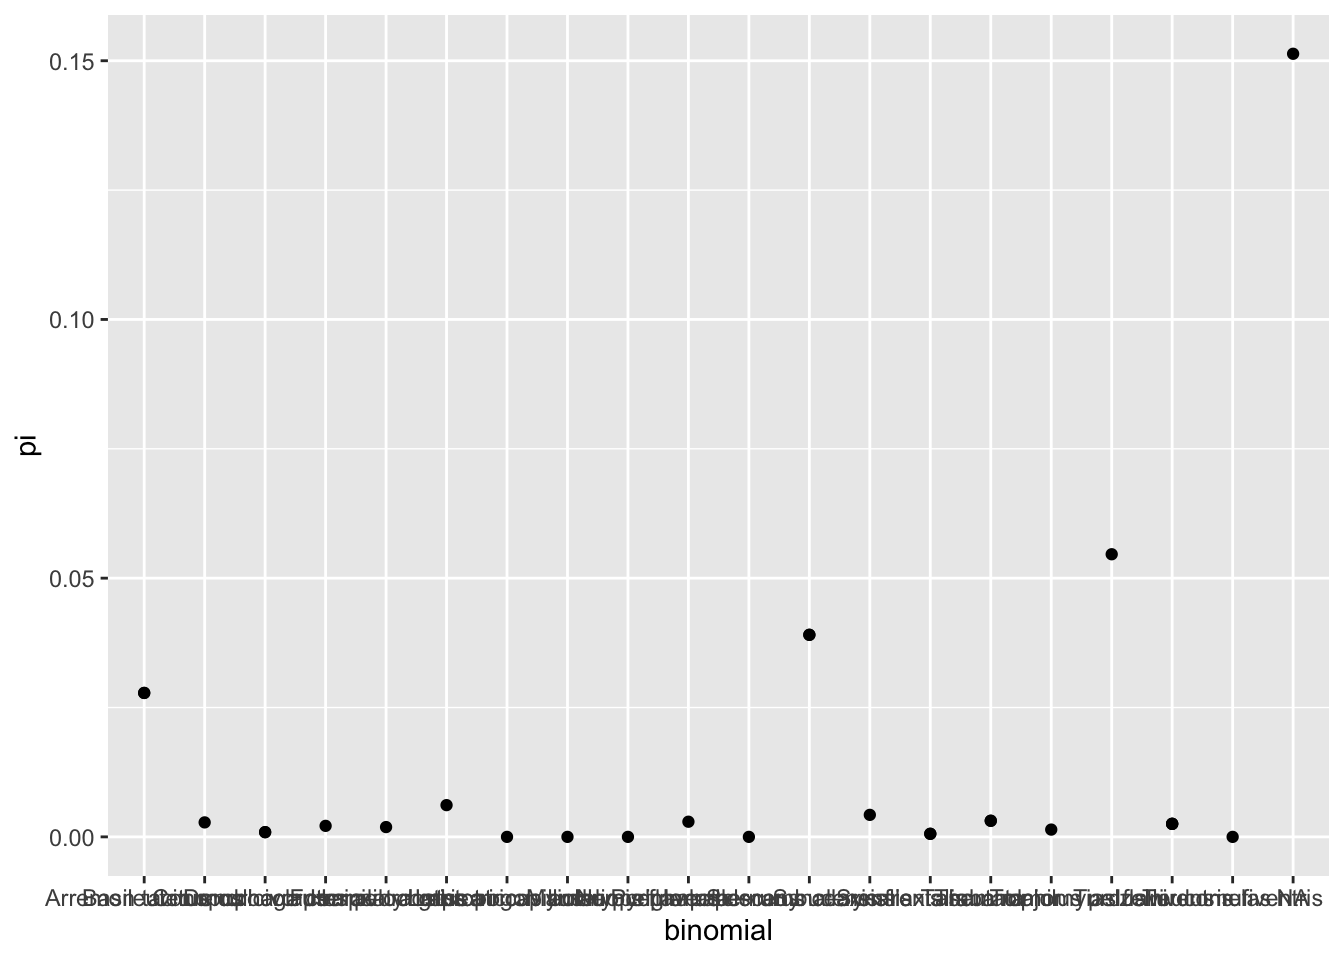
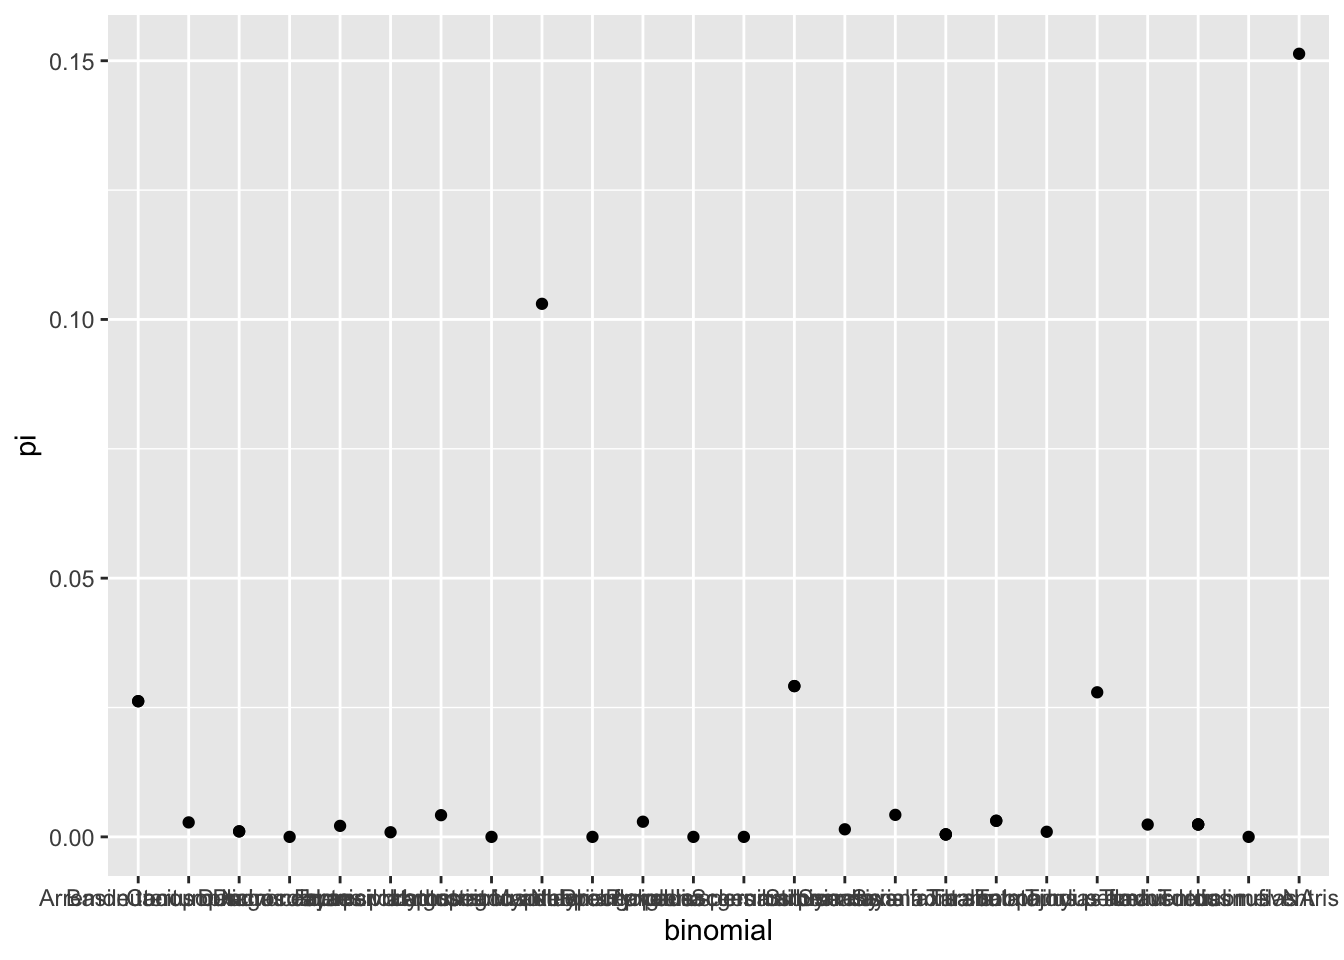
Plots and hill numbers

diff --git a/evo-bio/bird-barcode/aln_gendiv.html b/evo-bio/bird-barcode/aln_gendiv.html
@@ -335,10 +335,11 @@ $ sequence_quality &lt;chr&gt; NA, NA, "good sequence. Mathces with blast", NA, 
 <div class="sourceCode cell-code" id="cb23"><pre class="sourceCode r code-with-copy"><code class="sourceCode r"><span id="cb23-1"><a href="#cb23-1" aria-hidden="true" tabindex="-1"></a>coi_data<span class="sc">$</span>sequence[<span class="dv">1</span>]</span></code><button title="Copy to Clipboard" class="code-copy-button"><i class="bi"></i></button></pre></div>
 <div class="cell-output cell-output-stdout">
 <pre><code>[[1]]
-DNAStringSet object of length 2:
+DNAStringSet object of length 3:
     width seq
-[1]   666 CTTTGGCGCNTGAGCTGGAATAATTGGAACCGCC...ACATTTATTCTGATTCTTTGGTCACCCAGAAGT
-[2]   653 GGCGCATGAGCTGGAATAATTGGAACCGCCCTCA...TCTGTACCAACATTTATTCTGATTCTTTGGTCA</code></pre>
+[1]   667 CAAGACATTGGCACTCTATATCTAATCTTTGGCG...GAGGTGGAGACCCAATTCTGTACCAACATTTAT
+[2]   666 CTTTGGCGCNTGAGCTGGAATAATTGGAACCGCC...ACATTTATTCTGATTCTTTGGTCACCCAGAAGT
+[3]   653 GGCGCATGAGCTGGAATAATTGGAACCGCCCTCA...TCTGTACCAACATTTATTCTGATTCTTTGGTCA</code></pre>
 </div>
 </div>
 <p>We can see that the content is now formatted following the standards of the package <code>Biostrings</code>: we have the info of the width of each sequence, the sequence itself, and each base has a different color. This is the type of object we need for the alignment. Again, we can perform the alignment on each them with <code>mutate()</code> and the <code>muscle()</code> function from the <code>muscle</code> package. We save it to a different column called <code>aln</code>:</p>
@@ -351,10 +352,11 @@ DNAStringSet object of length 2:
 <div class="sourceCode cell-code" id="cb26"><pre class="sourceCode r code-with-copy"><code class="sourceCode r"><span id="cb26-1"><a href="#cb26-1" aria-hidden="true" tabindex="-1"></a>coi_data<span class="sc">$</span>aln[<span class="dv">1</span>]</span></code><button title="Copy to Clipboard" class="code-copy-button"><i class="bi"></i></button></pre></div>
 <div class="cell-output cell-output-stdout">
 <pre><code>[[1]]
-DNAMultipleAlignment with 2 rows and 666 columns
+DNAMultipleAlignment with 3 rows and 692 columns
      aln
-[1] CTTTGGCGCNTGAGCTGGAATAATTGGAACCGCCCT...CCAACATTTATTCTGATTCTTTGGTCACCCAGAAGT
-[2] ----GGCGCATGAGCTGGAATAATTGGAACCGCCCT...CCAACATTTATTCTGATTCTTTGGTCA---------</code></pre>
+[1] CAAGACATTGGCACTCTATATCTAATCTTTGGCGCA...CCAACATTTAT-------------------------
+[2] --------------------------CTTTGGCGCN...CCAACATTTATTCTGATTCTTTGGTCACCCAGAAGT
+[3] ------------------------------GGCGCA...CCAACATTTATTCTGATTCTTTGGTCA---------</code></pre>
 </div>
 </div>
 </section>
@@ -399,34 +401,66 @@ DNAMultipleAlignment with 2 rows and 666 columns
 <h4 class="anchored" data-anchor-id="step-7.-comparing-abundance-and-genetic-diversity">Step 7. Comparing abundance and genetic diversity</h4>
 <div class="cell">
 <div class="sourceCode cell-code" id="cb31"><pre class="sourceCode r code-with-copy"><code class="sourceCode r"><span id="cb31-1"><a href="#cb31-1" aria-hidden="true" tabindex="-1"></a>comm <span class="ot">&lt;-</span> <span class="fu">readRDS</span>(<span class="at">file =</span> <span class="st">'data/bird/abundance/comm_counts_samples.rds'</span>)</span>
-<span id="cb31-2"><a href="#cb31-2" aria-hidden="true" tabindex="-1"></a>comm <span class="ot">&lt;-</span> <span class="fu">lapply</span>(<span class="dv">1</span><span class="sc">:</span><span class="fu">length</span>(comm),<span class="cf">function</span>(x){<span class="fu">return</span>(<span class="fu">mutate</span>(comm[[x]],<span class="at">island =</span> <span class="fu">rep</span>(<span class="fu">names</span>(comm)[x],<span class="fu">nrow</span>(comm[[x]]))))}) <span class="sc">%&gt;%</span></span>
-<span id="cb31-3"><a href="#cb31-3" aria-hidden="true" tabindex="-1"></a>  <span class="fu">do.call</span>(<span class="at">what =</span> rbind.data.frame) <span class="sc">%&gt;%</span> <span class="fu">mutate</span>(<span class="at">island =</span> <span class="fu">str_to_lower</span>(island)) <span class="sc">%&gt;%</span></span>
-<span id="cb31-4"><a href="#cb31-4" aria-hidden="true" tabindex="-1"></a>  <span class="fu">rename</span>(<span class="at">sciName =</span> <span class="st">'binomial'</span>) <span class="sc">%&gt;%</span></span>
-<span id="cb31-5"><a href="#cb31-5" aria-hidden="true" tabindex="-1"></a>  <span class="fu">left_join</span>(coi_data,<span class="at">by=</span><span class="fu">c</span>(<span class="st">'island'</span>,<span class="st">'binomial'</span>)) <span class="sc">%&gt;%</span></span>
-<span id="cb31-6"><a href="#cb31-6" aria-hidden="true" tabindex="-1"></a>  <span class="fu">select</span>(<span class="sc">!</span><span class="fu">c</span>(sequence,aln,)) <span class="sc">%&gt;%</span></span>
-<span id="cb31-7"><a href="#cb31-7" aria-hidden="true" tabindex="-1"></a>  <span class="fu">mutate</span>(<span class="at">binomial =</span> <span class="fu">fct_reorder</span>(binomial,dplyr<span class="sc">::</span><span class="fu">desc</span>(total)))</span>
-<span id="cb31-8"><a href="#cb31-8" aria-hidden="true" tabindex="-1"></a>coeff <span class="ot">&lt;-</span> <span class="dv">10</span><span class="sc">^</span><span class="fl">3.2</span> <span class="co"># Coefficient for second axis</span></span>
-<span id="cb31-9"><a href="#cb31-9" aria-hidden="true" tabindex="-1"></a></span>
-<span id="cb31-10"><a href="#cb31-10" aria-hidden="true" tabindex="-1"></a><span class="fu">library</span>(ggthemes)</span>
-<span id="cb31-11"><a href="#cb31-11" aria-hidden="true" tabindex="-1"></a>comm <span class="sc">%&gt;%</span></span>
-<span id="cb31-12"><a href="#cb31-12" aria-hidden="true" tabindex="-1"></a>  <span class="fu">ggplot</span>(<span class="fu">aes</span>(<span class="at">x=</span>binomial,<span class="at">y=</span>total,<span class="at">group=</span>island))<span class="sc">+</span></span>
-<span id="cb31-13"><a href="#cb31-13" aria-hidden="true" tabindex="-1"></a>  <span class="fu">geom_bar</span>(<span class="at">stat=</span><span class="st">'identity'</span>,<span class="at">position =</span> <span class="fu">position_dodge</span>(),<span class="at">fill=</span><span class="st">'cadetblue3'</span>)<span class="sc">+</span></span>
-<span id="cb31-14"><a href="#cb31-14" aria-hidden="true" tabindex="-1"></a>  <span class="fu">stat_smooth</span>(<span class="fu">aes</span>(<span class="at">y=</span>total, <span class="at">x=</span>binomial), <span class="at">method =</span> lm, <span class="at">formula =</span> y <span class="sc">~</span> <span class="fu">poly</span>(x, <span class="dv">10</span>), <span class="at">se =</span> <span class="cn">FALSE</span>,</span>
-<span id="cb31-15"><a href="#cb31-15" aria-hidden="true" tabindex="-1"></a>              <span class="at">col =</span> <span class="st">'red'</span>,<span class="at">size=</span><span class="fl">0.5</span>)<span class="sc">+</span></span>
-<span id="cb31-16"><a href="#cb31-16" aria-hidden="true" tabindex="-1"></a>  <span class="fu">geom_point</span>(<span class="fu">aes</span>(<span class="at">y=</span>pi<span class="sc">*</span>coeff),<span class="at">color=</span><span class="st">'purple'</span>,<span class="at">size=</span><span class="fl">1.5</span>)<span class="sc">+</span></span>
-<span id="cb31-17"><a href="#cb31-17" aria-hidden="true" tabindex="-1"></a>  <span class="fu">facet_wrap</span>(<span class="sc">~</span>island)<span class="sc">+</span></span>
-<span id="cb31-18"><a href="#cb31-18" aria-hidden="true" tabindex="-1"></a>  <span class="fu">scale_y_continuous</span>(</span>
-<span id="cb31-19"><a href="#cb31-19" aria-hidden="true" tabindex="-1"></a>    <span class="at">name =</span> <span class="st">"Abundance"</span>,</span>
-<span id="cb31-20"><a href="#cb31-20" aria-hidden="true" tabindex="-1"></a>    <span class="at">sec.axis =</span> <span class="fu">sec_axis</span>(<span class="sc">~</span>.<span class="sc">/</span>coeff, <span class="at">name=</span><span class="st">"Nuc. Div."</span>)</span>
-<span id="cb31-21"><a href="#cb31-21" aria-hidden="true" tabindex="-1"></a>  )<span class="sc">+</span></span>
-<span id="cb31-22"><a href="#cb31-22" aria-hidden="true" tabindex="-1"></a>  <span class="fu">labs</span>(<span class="at">x=</span><span class="st">'Species'</span>)<span class="sc">+</span></span>
-<span id="cb31-23"><a href="#cb31-23" aria-hidden="true" tabindex="-1"></a>  <span class="fu">theme_minimal</span>()<span class="sc">+</span></span>
-<span id="cb31-24"><a href="#cb31-24" aria-hidden="true" tabindex="-1"></a>  <span class="fu">theme</span>(<span class="at">axis.text.x =</span> <span class="fu">element_blank</span>(),</span>
-<span id="cb31-25"><a href="#cb31-25" aria-hidden="true" tabindex="-1"></a>        <span class="at">axis.ticks =</span> <span class="fu">element_blank</span>())</span></code><button title="Copy to Clipboard" class="code-copy-button"><i class="bi"></i></button></pre></div>
+<span id="cb31-2"><a href="#cb31-2" aria-hidden="true" tabindex="-1"></a>comm_gen <span class="ot">&lt;-</span> <span class="fu">vector</span>(<span class="st">'list'</span>)</span>
+<span id="cb31-3"><a href="#cb31-3" aria-hidden="true" tabindex="-1"></a><span class="cf">for</span> (x <span class="cf">in</span> <span class="fu">names</span>(comm)) {</span>
+<span id="cb31-4"><a href="#cb31-4" aria-hidden="true" tabindex="-1"></a>  comm_gen[[x]] <span class="ot">&lt;-</span> comm[[x]] <span class="sc">%&gt;%</span> </span>
+<span id="cb31-5"><a href="#cb31-5" aria-hidden="true" tabindex="-1"></a>    <span class="fu">rename</span>(<span class="at">sciName =</span> <span class="st">'binomial'</span>) <span class="sc">%&gt;%</span></span>
+<span id="cb31-6"><a href="#cb31-6" aria-hidden="true" tabindex="-1"></a>    <span class="fu">left_join</span>(coi_data[<span class="fu">which</span>(coi_data<span class="sc">$</span>island<span class="sc">==</span><span class="fu">str_to_lower</span>(x)),],<span class="at">by=</span><span class="st">'binomial'</span>) <span class="sc">%&gt;%</span> </span>
+<span id="cb31-7"><a href="#cb31-7" aria-hidden="true" tabindex="-1"></a>    <span class="fu">select</span>(<span class="sc">!</span><span class="fu">c</span>(sequence,aln,island)) <span class="sc">%&gt;%</span></span>
+<span id="cb31-8"><a href="#cb31-8" aria-hidden="true" tabindex="-1"></a>    <span class="fu">mutate</span>(<span class="at">binomial =</span> <span class="fu">fct_reorder</span>(binomial,dplyr<span class="sc">::</span><span class="fu">desc</span>(total)))</span>
+<span id="cb31-9"><a href="#cb31-9" aria-hidden="true" tabindex="-1"></a>    <span class="co">#replace_na(list(n=0,pi=0))</span></span>
+<span id="cb31-10"><a href="#cb31-10" aria-hidden="true" tabindex="-1"></a>}</span>
+<span id="cb31-11"><a href="#cb31-11" aria-hidden="true" tabindex="-1"></a><span class="fu">names</span>(comm_gen) <span class="ot">&lt;-</span> <span class="fu">names</span>(comm)</span>
+<span id="cb31-12"><a href="#cb31-12" aria-hidden="true" tabindex="-1"></a></span>
+<span id="cb31-13"><a href="#cb31-13" aria-hidden="true" tabindex="-1"></a>coeff <span class="ot">&lt;-</span> <span class="dv">10</span><span class="sc">^</span><span class="fl">3.2</span> <span class="co"># Coefficient for second axis</span></span>
+<span id="cb31-14"><a href="#cb31-14" aria-hidden="true" tabindex="-1"></a><span class="fu">library</span>(ggthemes)</span>
+<span id="cb31-15"><a href="#cb31-15" aria-hidden="true" tabindex="-1"></a><span class="fu">lapply</span>(<span class="dv">1</span><span class="sc">:</span><span class="fu">length</span>(comm_gen),<span class="cf">function</span>(i){</span>
+<span id="cb31-16"><a href="#cb31-16" aria-hidden="true" tabindex="-1"></a>  <span class="fu">ggplot</span>(comm_gen[[i]],<span class="fu">aes</span>(<span class="at">x=</span>binomial,<span class="at">y=</span>total))<span class="sc">+</span></span>
+<span id="cb31-17"><a href="#cb31-17" aria-hidden="true" tabindex="-1"></a>    <span class="fu">geom_bar</span>(<span class="at">stat=</span><span class="st">'identity'</span>,<span class="at">position =</span> <span class="fu">position_dodge</span>(),<span class="at">fill=</span><span class="st">'cadetblue3'</span>)<span class="sc">+</span></span>
+<span id="cb31-18"><a href="#cb31-18" aria-hidden="true" tabindex="-1"></a>    <span class="fu">stat_smooth</span>(<span class="fu">aes</span>(<span class="at">y=</span>total, <span class="at">x=</span>binomial), <span class="at">method =</span> lm, <span class="at">formula =</span> y <span class="sc">~</span> <span class="fu">poly</span>(x, <span class="dv">10</span>), <span class="at">se =</span> <span class="cn">FALSE</span>,</span>
+<span id="cb31-19"><a href="#cb31-19" aria-hidden="true" tabindex="-1"></a>                <span class="at">col =</span> <span class="st">'red'</span>,<span class="at">size=</span><span class="fl">0.5</span>)<span class="sc">+</span></span>
+<span id="cb31-20"><a href="#cb31-20" aria-hidden="true" tabindex="-1"></a>    <span class="fu">geom_point</span>(<span class="fu">aes</span>(<span class="at">y=</span>pi<span class="sc">*</span>coeff),<span class="at">color=</span><span class="st">'purple'</span>,<span class="at">size=</span><span class="fl">1.5</span>)<span class="sc">+</span></span>
+<span id="cb31-21"><a href="#cb31-21" aria-hidden="true" tabindex="-1"></a>    <span class="fu">scale_y_continuous</span>(</span>
+<span id="cb31-22"><a href="#cb31-22" aria-hidden="true" tabindex="-1"></a>      <span class="at">name =</span> <span class="st">"Abundance"</span>,</span>
+<span id="cb31-23"><a href="#cb31-23" aria-hidden="true" tabindex="-1"></a>      <span class="at">sec.axis =</span> <span class="fu">sec_axis</span>(<span class="sc">~</span>.<span class="sc">/</span>coeff, <span class="at">name=</span><span class="st">"Nuc. Div."</span>)</span>
+<span id="cb31-24"><a href="#cb31-24" aria-hidden="true" tabindex="-1"></a>    )<span class="sc">+</span></span>
+<span id="cb31-25"><a href="#cb31-25" aria-hidden="true" tabindex="-1"></a>    <span class="fu">labs</span>(<span class="at">x=</span><span class="st">'Species'</span>)<span class="sc">+</span></span>
+<span id="cb31-26"><a href="#cb31-26" aria-hidden="true" tabindex="-1"></a>    <span class="fu">theme_minimal</span>()<span class="sc">+</span></span>
+<span id="cb31-27"><a href="#cb31-27" aria-hidden="true" tabindex="-1"></a>    <span class="fu">theme</span>(<span class="at">axis.text.x =</span> <span class="fu">element_blank</span>(),</span>
+<span id="cb31-28"><a href="#cb31-28" aria-hidden="true" tabindex="-1"></a>          <span class="at">axis.ticks =</span> <span class="fu">element_blank</span>())<span class="sc">+</span></span>
+<span id="cb31-29"><a href="#cb31-29" aria-hidden="true" tabindex="-1"></a>    <span class="fu">ggtitle</span>(<span class="fu">names</span>(comm_gen)[i])</span>
+<span id="cb31-30"><a href="#cb31-30" aria-hidden="true" tabindex="-1"></a>})</span></code><button title="Copy to Clipboard" class="code-copy-button"><i class="bi"></i></button></pre></div>
+<div class="cell-output cell-output-stdout">
+<pre><code>[[1]]</code></pre>
+</div>
 <div class="cell-output-display">
 <p><img src="aln_gendiv_files/figure-html/unnamed-chunk-26-1.png" class="img-fluid" width="672"></p>
 </div>
+<div class="cell-output cell-output-stdout">
+<pre><code>
+[[2]]</code></pre>
 </div>
+<div class="cell-output-display">
+<p><img src="aln_gendiv_files/figure-html/unnamed-chunk-26-2.png" class="img-fluid" width="672"></p>
+</div>
+<div class="cell-output cell-output-stdout">
+<pre><code>
+[[3]]</code></pre>
+</div>
+<div class="cell-output-display">
+<p><img src="aln_gendiv_files/figure-html/unnamed-chunk-26-3.png" class="img-fluid" width="672"></p>
+</div>
+<div class="cell-output cell-output-stdout">
+<pre><code>
+[[4]]</code></pre>
+</div>
+<div class="cell-output-display">
+<p><img src="aln_gendiv_files/figure-html/unnamed-chunk-26-4.png" class="img-fluid" width="672"></p>
+</div>
+</div>
+</section>
+<section id="step-8.-calculating-evenness" class="level4">
+<h4 class="anchored" data-anchor-id="step-8.-calculating-evenness">Step 8. Calculating evenness</h4>
 </section>
 </section>
 
